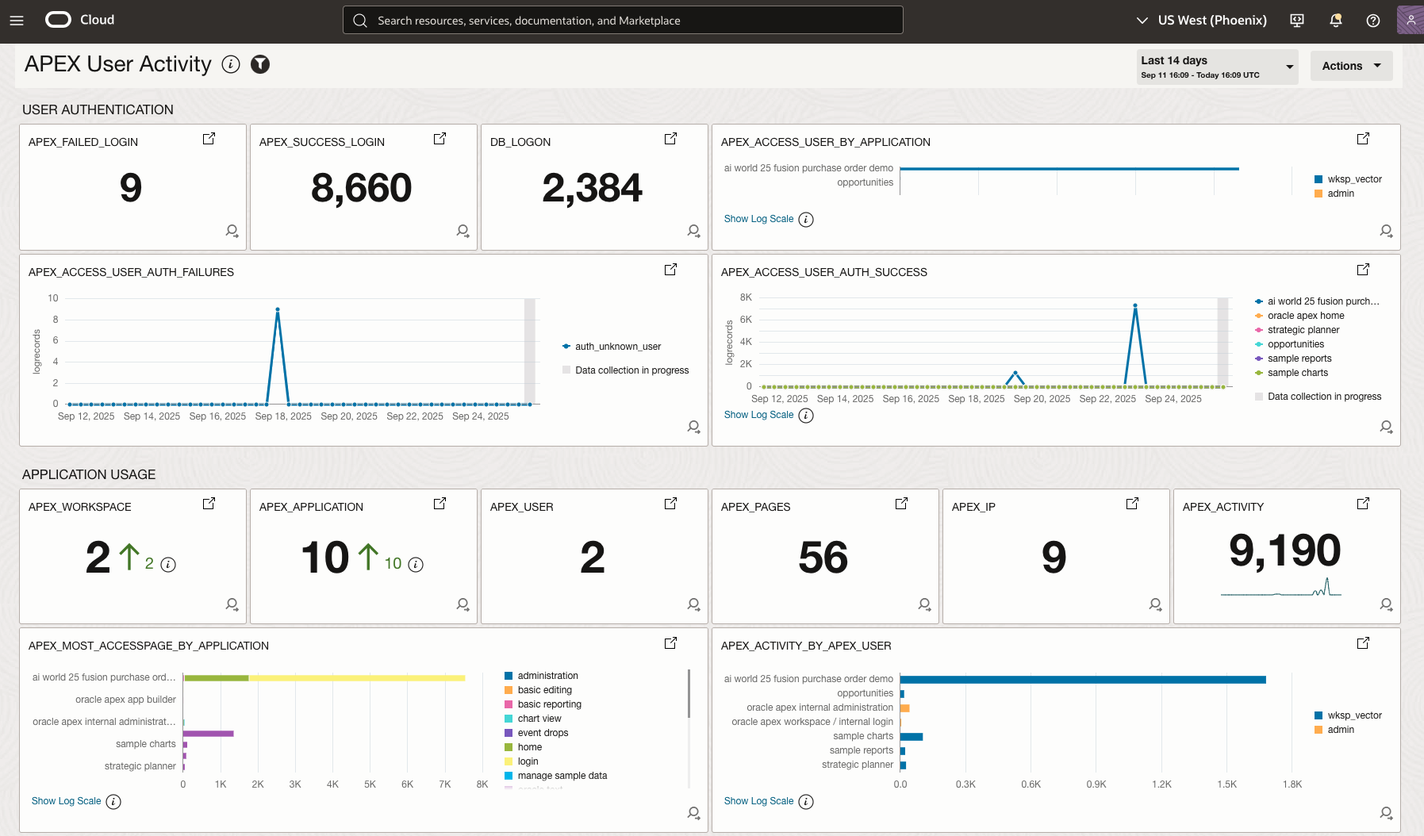
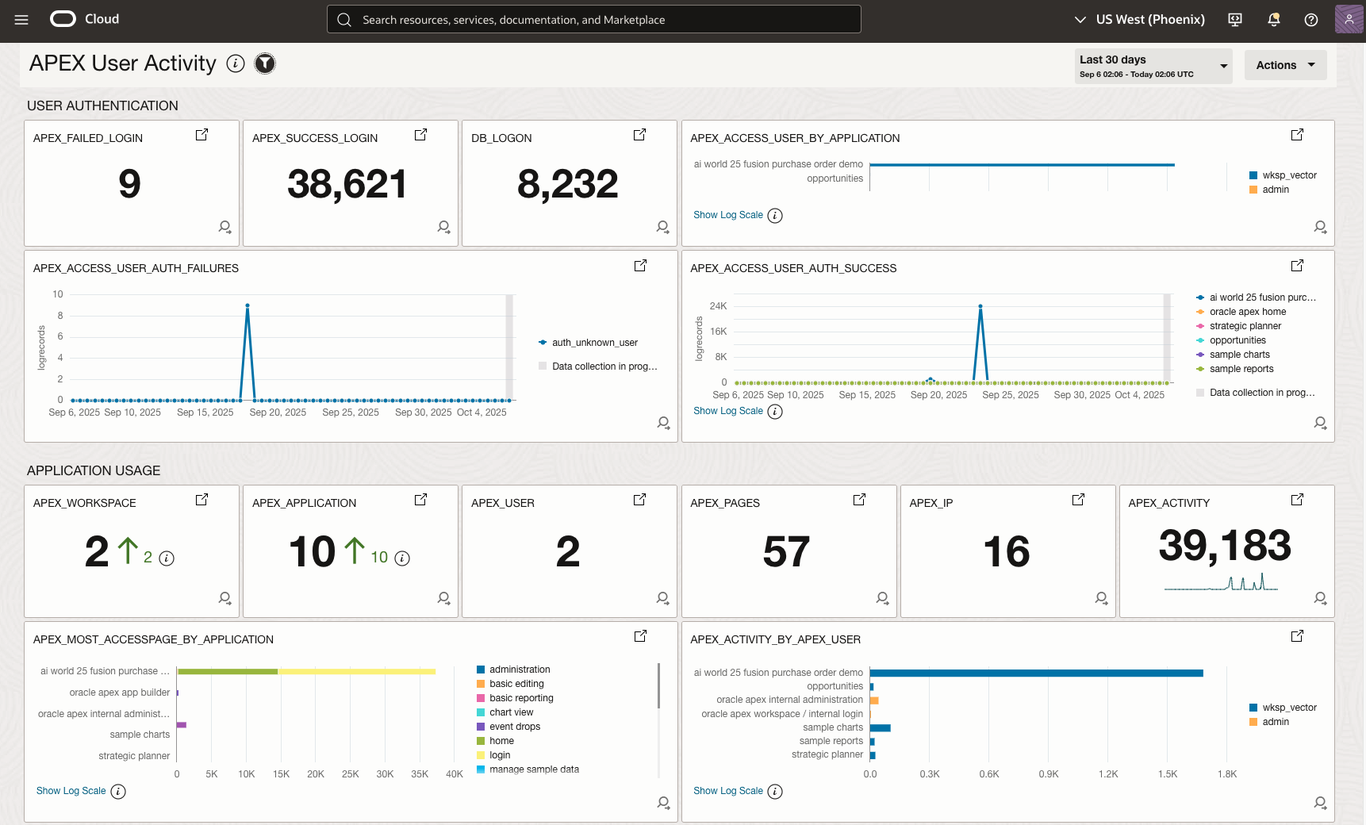
LA Livelab feedback and bug updates

diff --git a/logging-analytics/saas-oic-monitoring/monitoring-individual-components/monitoring-individual-components.md b/logging-analytics/saas-oic-monitoring/monitoring-individual-components/monitoring-individual-components.md
@@ -4,7 +4,7 @@
 
 In this lab, you will explore the various dashboards available in Oracle for monitoring Fusion Applications, Oracle Integration Cloud (OIC), and Oracle Database (DB). These dashboards offer a unified and centralized view of log data, allowing users to efficiently monitor system health, analyze performance, and troubleshoot issues across Fusion Applications, OIC integrations, and database instances.
 
-Estimated Time: 5 minutes
+Estimated Time: 5  minutes
 
 ### Objectives
 In this lab, you will get an overview of the different dashboards, including their usage and the various widgets provided within each dashboard.
@@ -26,10 +26,10 @@ In this lab, you will get an overview of the different dashboards, including the
 
     > **Note** : You will see an authorization error. It is expected as current user doesn't have permission to the root compartment.
 
- -  Switch to the compartment **AIW25\_Logging\_Analytics**.
-    - From the **Compartment** dropdown select the compartment **AIW25\_Logging\_Analytics**.
+ -  Switch to the compartment **AIW25\_Log\_Analytics**.
+    - From the **Compartment** dropdown select the compartment **AIW25\_Log\_Analytics**.
     - From the **Services** dropdown select the service **Log Analytics**.
-    - All the Dashboards in the Compartment **AIW25\_Logging\_Analytics** will be displayed.
+    - All the Dashboards in the Compartment **AIW25\_Log\_Analytics** will be displayed.
       
    ![all-dashboards](images/all-dashboards.jpg)
 
@@ -41,15 +41,23 @@ In this lab, you will get an overview of the different dashboards, including the
 
 -  **Oracle Integration Insight**  dashboard provides real-time business monitoring by linking technical integrations to business processes and KPIs. The dashboard enables business users, analysts, and IT teams to visualize the progress, performance, and bottlenecks in their business operations. It consists of different widgets like Summary widget, Milestone progress widget, Transction Performance widget , Transaction Tracking Fields widget etc. 
 
-- In order to view this dashboard one has to search for and click on the **Oracle Integration Insight** dashboard from the  **Dashboard** home page. It will take few seconds for the dashboard widgets to load.![dashboards-oic-insight](images/dashboards-oic-insight.jpg)
+- In order to view this dashboard, you can search for **Oracle Integration Insight** dashboard with the filter **Created by** as **Users** from the **Dashboard** home page. It will take few seconds for the dashboard widgets to load.![dashboards-oic-insight](images/dashboards-oic-insight.jpg)
+- **Note**: Please select the following filters and time rangefor the dashboard: 
+- **Log Group Compartment**: emdemo(root)
+- **Time Range**: Last 24 hours
+- Dashboard Filters:![dashboard-filters](images/logan-ll-oic-insight-dashboard-filters.png)
 	> **Important tip** : Observe the dashboard widgets & values once they are loaded.
 	![oic-insight-dashboard](images/logan-ll-oic-insight-dashboard.jpg)
 
 - **Oracle Integration: Health Overview** dashboard provides an overview of the monitored OIC instances, integrations, and their health based on the metrics and logs. This dashboard is used to gain insights into the current health of your OIC Instances, Integrations, and Flow Instances. Filters can be used to narrow down to a specific OIC Instance, Integration, and Integration Instance. It displays both metrics and log data at the compartment level. 
 
 - In order to view this dashboard one has to search for and click on the **Oracle Integration: Health Overview** from the  **Dashboard** home page. It will take few seconds for the dashboard widgets to load. ![dashboards-oic-health](images/dashboards-oic-health.jpg)
+- **Note**: Please select the following filters and time rangefor the dashboard: 
+- **Log Group Compartment**: emdemo(root)
+- **Time Range**: Last 24 hours
+- Dashboard Filters: ![dashboard-filters](images/logan-ll-oic-health-dashboard-filters.png)
 	> **Important tip** : Observe the dashboard widgets & values once they are loaded.
-	![oic-health-dashboard](images/oic-health-dashboard.jpg)
+	![oic-health-dashboard](images/logan-ll-oic-health-dashboard.png)
 
 ## Task 3: Overview of Oracle Fusion User Access and Audit Dashboard
 
@@ -60,13 +68,21 @@ In this lab, you will get an overview of the different dashboards, including the
 **Oracle Fusion User Access** dashboard provides comprehensive visibility into user authentication and access patterns within Oracle Fusion Applications. This dashboard tracks sign-in and sign-out activities of Fusion users, allowing administrators and security teams to monitor who is accessing the system, when, and from where. 
 
 - In order to view this dashboard one has to search for and click on the **Oracle Fusion User Access** dashboard from the  **Dashboard** home page. It will take few seconds for the dashboard widgets to load. ![dashboards-fusion-user-access](images/dashboards-fusion-user-access.jpg)
+- **Note**: Please select the following filters and time rangefor the dashboard: 
+- **Log Group Compartment**: emdemo(root)
+- **Time Range**: Last 7 days
+- Dashboard Filters:![dashboard-filters](images/logan-ll-fusion-user-access-dashboard-filters.png)
       > **Important tip** : Observe the dashboard widgets & values once they are loaded.
       ![db-fusion-user-access-dashboard](images/logan-ll-fusion-user-access-1.png)
-	  ![db-fusion-user-access-dashboard](images/logan-ll-fusion-user-access-2.png)   
+	![db-fusion-user-access-dashboard](images/logan-ll-fusion-user-access-2.png)   
 
 **Oracle Fusion Apps: OPSS Audit Analysis** dashboard leverages OPSS audit logs to provide comprehensive visibility into authentication and access events within Oracle Fusion Applications. By analyzing OPSS audit logs, this dashboard allows administrators and security teams to track new user creation and role assignment, monitor security-related operations, and identify when and where users accessed the system. The insights derived from OPSS audit logs help ensure compliance, detect suspicious access patterns, and enhance overall security monitoring.
 
 - In order to view this dashboard one has to search for and click on the **Oracle Fusion Apps: OPSS Audit Analysis** dashboard from the  **Dashboard** home page. It will take few seconds for the dashboard widgets to load. ![dashboards-fusion-opss-access](images/logan-ll-dashboards-fusion-opss-access.png)
+- **Note**: Please select the following filters and time rangefor the dashboard: 
+- **Log Group Compartment**: emdemo(root)
+- **Time Range**: Last 7 days
+- Dashboard Filters: ![dashboard-filters](images/logan-ll-dashboard-filter.png)
       > **Important tip** : Observe the dashboard widgets & values once they are loaded.
       ![db-fusion-opss-dashboard](images/logan-ll-fusion-opss.png)
 
@@ -75,6 +91,10 @@ In this lab, you will get an overview of the different dashboards, including the
 **Oracle Fusion Apps Enterprise Scheduler Service (ESS) Analysis** dashboard provides deep visibility into the execution and status of ESS job requests within Oracle Fusion Applications. By collecting and analyzing ESS logs using OCI Logging Analytics, this dashboard enables you to monitor job execution trends, identify failed or long-running jobs, and troubleshoot scheduling issues. The dashboard leverages log ingestion via the OCI Logging Analytics REST API, offering actionable insights into job request patterns, error rates, and operational bottlenecks. For more details on how ESS logs are collected and analyzed.
 
 - In order to view this dashboard one has to search for and click on the **Oracle Fusion Apps Enterprise Scheduler Service (ESS) Analysis**  dashboard from the  **Dashboard** home page. It will take few seconds for the dashboard widgets to load. ![dashboards-fusion-enterprise](images/dashboards-fusion-enterprise.jpg)
+- **Note**: Please select the following filters and time rangefor the dashboard: 
+- **Log Group Compartment**: emdemo(root)
+- **Time Range**: Last 24 hours
+- Dashboard Filters: ![dashboard-filters](images/logan-ll-dashboard-filter.png)
       > **Important tip** : Observe the dashboard widgets & values once they are loaded.
       ![fusion-enterprise-dashboard](images/logan-ll-fusion-enterprise-dashboard.png)
 
@@ -85,9 +105,14 @@ In this lab, you will get an overview of the different dashboards, including the
 | **Oracle APEX Application** | User Activity, Application Usage, Error Logs | User Success and Failed Logins, Application and User Activity, Application Errors | ADW, OIC | Database connector based log ingestion via Management Agent |
 
 - **Oracle APEX Application** dashboard provides an overview of the monitored APEX Application, including user activity, application usage, and error logs. This dashboard is used to gain insights into the current health of your APEX Application.
-- In order to view this dashboard one has to search for and click on the **APEX User Activity** dashboard from the  **Dashboard** home page. It will take few seconds for the dashboard widgets to load. Time range is set to **Last 7 days**. ![apex-user-activity-access](images/logan-ll-apex-user-activity-access.png)
+- In order to view this dashboard one has to search for and click on the **APEX User Activity** dashboard from the  **Dashboard** home page. It will take few seconds for the dashboard widgets to load. Time range is set to **Last 30 days**. ![apex-user-activity-access](images/logan-ll-apex-user-activity-access.png)
+- **Note**: Please select the following filters and time rangefor the dashboard: 
+- **Log Group Compartment**: emdemo(root)
+- **Time Range**: Last 30 days
+- **Compartment**: **AIW25\_Log\_Analytics**
+- Dashboard Filters: ![dashboard-filters](images/logan-ll-apex-dashboard-filter.png)
       > **Important tip** : Observe the dashboard widgets & values once they are loaded.
-	![apex-application-dashboard](images/logan-ll-apex-user-activity-dashboard-1.png)
+	![apex-application-dashboard](images/logan-ll-apex-user-activity-dashboard.png)
       ![apex-application-dashboard-continued](images/logan-ll-apex-user-activity-dashboard-2.png)
 
 ## Task 6: Overview of Oracle Database Audit Analysis dashboard
@@ -99,25 +124,29 @@ In this lab, you will get an overview of the different dashboards, including the
 - **Oracle Database Audit Analysis** dashboard provides analysis of audited actions for Oracle Databases monitored by Log Analytics using Unified Database Audit Logs available in DB v12.2 onwards. This dashboard is used to understand user activity, schema changes etc.
 
 - In order to view this dashboard one has to search for and click on the **Oracle Database Audit Analysis** dashboard from the  **Dashboard** home page. It will take few seconds for the dashboard widgets to load. ![dashboards-db-audit](images/dashboards-db-audit.jpg)
+- **Note**: Please select the following filters and time rangefor the dashboard: 
+- **Log Group Compartment**: emdemo(root)
+- **Time Range**: Last 14 days
+- Dashboard Filters: ![dashboard-filters](images/logan-ll-dashboard-filter.png)
       > **Important tip** : Observe the dashboard widgets & values once they are loaded.
       ![db-audit-dashboard](images/logan-ll-db-audit.png)
 
 **Congratulations!** In this lab, you have successfuly completed the following tasks:
-- Monitoring different dashboards
+- Monitoring using individual dashboards
+- Switching to different time ranges for the dashboards
+
+You may now proceed to the [next lab](#next).
 
 ## Learn More
 
 * [Fusion Apps Observability by Collecting ESS Logs Using OCI Logging Analytics REST API Ingestion](https://www.ateam-oracle.com/post/fusion-apps-observability-by-collecting-ess-logs-using-oci-logging-analytics-rest-api-ingestion)
-* [Oracle Integration Insight Dashboard](https://docs.oracle.com/en-us/iaas/logging-analytics/doc/oracle-integration-insight-dashboard.html)
-* [Oracle Integration: Health Overview Dashboard](https://docs.oracle.com/en-us/iaas/logging-analytics/doc/oracle-integration-health-overview-dashboard.html)
-* [Oracle Database Audit Analysis Dashboard](https://docs.oracle.com/en-us/iaas/logging-analytics/doc/oracle-database-audit-analysis-dashboard.html)
-* [Oracle Fusion User Access Dashboard](https://docs.oracle.com/en-us/iaas/logging-analytics/doc/oracle-fusion-user-access-dashboard.html)
-* [Oracle Fusion Apps Enterprise Scheduler Service (ESS) Analysis Dashboard](https://docs.oracle.com/en-us/iaas/logging-analytics/doc/oracle-fusion-apps-enterprise-scheduler-service-ess-analysis-dashboard.html)
+* [Oracle Integration Insight Dashboard](https://docs.oracle.com/en-us/iaas/log-analytics/doc/oracle-integration-insight.html)
+* [Oracle Integration: Health Overview Dashboard](https://docs.oracle.com/en-us/iaas/log-analytics/doc/oracle-integration-health-overview.html)
+* [Oracle Database Audit Analysis Dashboard](https://docs.oracle.com/en-us/iaas/log-analytics/doc/oracle-database-audit-analysis.html)
+* [Oracle Fusion Apps Enterprise Scheduler Service (ESS) Analysis Dashboard](https://github.com/oracle-quickstart/oci-o11y-solutions/tree/main/knowledge-content/fa-ess-scheduler)
 
-
-You may now proceed to the [next lab](#next).
 
 ## Acknowledgements
 * **Author** - Supriya Joshi, OCI Log Analytics, Royce Fu, Master Principal Cloud Architect, Kumar Varun, Log Analytics Product Management
 * **Contributors** -  Supriya Joshi, Jolly Kundu, Kumar Varun, Royce Fu
-* **Last Updated By/Date** - Royce Fu, Sep, 2025
+* **Last Updated By/Date** - Royce Fu, Oct, 2025

diff --git a/logging-analytics/saas-oic-monitoring/monitoring-e2e-po-flow/monitoring-e2e-po-flow.md b/logging-analytics/saas-oic-monitoring/monitoring-e2e-po-flow/monitoring-e2e-po-flow.md
@@ -38,14 +38,7 @@ The following components generate logs that are crucial for end-to-end observabi
 - **Technical correlation for integration flows**
     - Transaction ID
     - OPC Request ID
-- **User ID** to track user actions across ERP and VBCS
 - **Timestamp** to track chronological ordering of events across components
-
-**Cross-Component Traceability:**
-- **Correlation ID**: Unique identifier passed through all components
-- **Timestamp Alignment**: Synchronized timestamps across all log sources
-- **Business Context**: PO number, user ID, and transaction ID tracking
-- **Error Propagation**: Error details flow from source to downstream components
 
 ## Task 2: Find the Purchase Order information
 
@@ -57,12 +50,12 @@ The following components generate logs that are crucial for end-to-end observabi
 
 ## Task 3: Tracing the Purchase Order Business Identifiers
 
-- **Navigate to Oracle Cloud Console**
+**Navigate to Oracle Cloud Console**
    - Log in to your Oracle Cloud Infrastructure console
    - Navigate to **Observability & Management** → **Log Analytics**
    - Click on **Log Explorer**
 
-- **Click the Log Explorer filter**
+**Click the Log Explorer filter**
    - Make sure the Log Group Compartment **emdemo(root)** is selected
    - Make sure the Region **US West (Phoenix)** is selected
    - Change the Time Range to **Last 8 hours**
@@ -90,15 +83,15 @@ The following components generate logs that are crucial for end-to-end observabi
 
 - Select the Time Range: Last 30 days
 - Visualization: Link
-- Run the following query in Log Explorer: 
 - Click the saved search URL [**Purchase Order Integration Runs Duration**](https://cloud.oracle.com/loganalytics/explorer?savedSearchId=ocid1.managementsavedsearch.oc1..aaaaaaaa7dz5imt6qebrrdet4r4zwme7qjh5mpeo53ox2tlbig2f6q5m64pq&jobId=3f01334b-17d5-3c6a-5e2d-013ff05b6c9e&region=us-phoenix-1) to open the saved search in Log Explorer
+- Or run the following query in Log Explorer: 
 
    ```sql
    <copy>
    (300000313760215 or US165676) and 'Log Source' in ('OCI Integration Activity Stream Logs', AIW_PO_ERP_ATP) | link 'OPC Request ID', Integration | eval Duration = 'End Time' - 'Start Time'
    </copy>
    ```
-
+- **Optional**: You can substitute the PO number with your own PO number to track the duration of your Purchase Order integration runs.
 - Example Result Screenshot: 
 
 ![Purchase Order Integration Runs Duration](images/logan-ll-purchase-order-integration-runs-duration.png)
@@ -109,7 +102,7 @@ The following components generate logs that are crucial for end-to-end observabi
 - Select the Time Range: Last 24 hours
 - Visualization: Link
 - Click the saved search URL [**Purchase Order Flow Timeline**](https://cloud.oracle.com/loganalytics/explorer?savedSearchId=ocid1.managementsavedsearch.oc1..aaaaaaaagibcw7an4rryjyozga3iqr7udva24h4p5idoh2xijcsdmr3idl5q&jobId=2e412276-e814-1cfd-f5df-4ed035aed6d8&region=us-phoenix-1) to open the saved search in Log Explorer
-- Run the following query in Log Explorer: 
+- Or run the following query in Log Explorer: 
 
    ```sql
    <copy>
@@ -128,14 +121,14 @@ Example Result Screenshot:
 - Select the Time Range: Last 30 days
 - Visualization: Table
 - Click the saved search URL [**Track a specific Purchase Order for example: 300000313760215 or US165676 across all systems**](https://cloud.oracle.com/loganalytics/explorer?savedSearchId=ocid1.managementsavedsearch.oc1..aaaaaaaaatq6boajnavzdpjf2oa6htih5jzdqetq6w4w4jwe4hotoqlb3owq&jobId=95046557-fc66-aa76-508f-0c37f3332164&region=us-phoenix-1) to open the saved search in Log Explorer
-- Run the following query in Log Explorer: 
+- Or run the following query in Log Explorer: 
 
    ```sql
    <copy>
    (300000313760215 or US165676) and 'Log Source' in ('OCI Integration Activity Stream Logs', AIW_PO_ERP_ATP) | fields -Entity, -'Host Name (Server)', -'Problem Priority', -Label, Integration, Message, Value, Action, 'Action Type', 'OPC Request ID', -'Entity Type'
    </copy>
    ```
-
+- **Optional**: You can substitute the PO number with your own PO number to track the duration of your Purchase Order integration runs.
 - Example Result Screenshot: 
 
 ![Purchase Order Integration Flows](images/logan-ll-purchase-order-integration-flows-details.png)
@@ -148,7 +141,7 @@ Example Result Screenshot:
 - Select the Time Range: Last 24 hours
 - Visualization: Records with Histogram
 - Click the saved search URL [**Oracle Integration Cloud Milestones Trend**](https://cloud.oracle.com/loganalytics/explorer?savedSearchId=ocid1.managementsavedsearch.oc1..aaaaaaaa5k23nuywnvlorwmhzm3amzqyduix4ijimatifxdqrhddsiah2upq&jobId=f2b2c50a-5088-ca02-2a37-7ac59e121ba6&region=us-phoenix-1) to open the saved search in Log Explorer
-- Run the following query in Log Explorer: 
+- Or run the following query in Log Explorer: 
 
    ```sql
    <copy>
@@ -165,7 +158,7 @@ Example Result Screenshot:
 - Select the Time Range: Last 24 hours
 - Visualization: Pie
 - Click the saved search URL [**Oracle Integration Action Types Summary**](https://cloud.oracle.com/loganalytics/explorer?savedSearchId=ocid1.managementsavedsearch.oc1..aaaaaaaagsk2yup63wu52yjjvhazqrwrhtlgyah52bki3iumu7pgf4pjnmca&jobId=8d66a7b0-bbac-faa8-b420-0723bbe64cd8&region=us-phoenix-1) to open the saved search in Log Explorer
-- Run the following query in Log Explorer: 
+- Or run the following query in Log Explorer: 
 
    ```sql
    <copy>
@@ -184,7 +177,7 @@ Example Result Screenshot:
 - Select the Time Range: Last 24 hours
 - Visualization: Link
 - Click the saved search URL [**Analyze Oracle Integration Cloud Transaction Performance**](https://cloud.oracle.com/loganalytics/explorer?savedSearchId=ocid1.managementsavedsearch.oc1..aaaaaaaa32o74wmh6ler6mxqwilpviqttuqu74yhmnf7rcxqtlbpsd7jkbsa&jobId=85f6ff26-2f02-95f5-ca45-8cca3fd47629&region=us-phoenix-1) to open the saved search in Log Explorer
-- Run the following query in Log Explorer: 
+- Or run the following query in Log Explorer: 
 
    ```sql
    <copy>
@@ -210,7 +203,7 @@ Example Result Screenshot:
 - Select the Time Range: Last 24 hours
 - Visualization: Link
 - Click the saved search URL [**Identify the long running Purchase Order integrations**](https://cloud.oracle.com/loganalytics/explorer?savedSearchId=ocid1.managementsavedsearch.oc1..aaaaaaaaceb6o434pqfihntr5xsstfabzgay34j36arevkrfkjmesmcqkgaq&jobId=843d119e-600b-63aa-929e-b9e580e363c8&region=us-phoenix-1) to open the saved search in Log Explorer
-- Run the following query in Log Explorer: 
+- Or run the following query in Log Explorer: 
 
    ```sql
    <copy>
@@ -221,22 +214,6 @@ Example Result Screenshot:
 - Example Result Screenshot: 
 
 ![Identify the long running Purchase Order integrations](images/logan-ll-identify-the-long-running-purchase-order-integrations.png)
-
-### **Identify the long running Purchase Order integrations with Chart**
-
-- Select the Time Range: Last 24 hours
-- Visualization: Link
-- Run the following query in Log Explorer: 
-
-   ```sql
-   <copy>
-   'Log Source' in ('OCI Integration Activity Stream Logs', AIW_PO_ERP_ATP) and Integration != rpa_integration and Integration != dell_ftp_receive | link 'OPC Request ID', Integration | stats avg(Duration) as Duration | eval Duration = 'End Time' - 'Start Time' | sort -Duration | fields -'End Time' | classify topcount = 500 correlate = -*, 'OPC Request ID' 'Start Time', Integration, Duration as 'PO Integrations duration'
-   </copy>
-   ```
-
-- Example Result Screenshot: 
-
-![Identify the long running Purchase Order integrations with Chart](images/logan-ll-identify-the-long-running-purchase-order-integrations-with-chart.png)
 
 
 ## Task 5: Visualize the Purchase Order business data in Log Analytics
@@ -271,9 +248,9 @@ You may now proceed to the [next lab](#next).
 ## Learn More
 
 * [Oracle Cloud Infrastructure Log Analytics Documentation](https://docs.oracle.com/en-us/iaas/log-analytics/)
-* [Log Analytics Query Language Reference](https://docs.oracle.com/en-us/iaas/log-analytics/doc/query-language.html)
+* [Log Analytics Query Language Reference](https://docs.oracle.com/en-us/iaas/log-analytics/doc/command-reference.html)
 * [Creating Dashboards in Log Analytics](https://docs.oracle.com/en-us/iaas/log-analytics/doc/create-dashboards.html)
-* [Setting up Alerts in Log Analytics](https://docs.oracle.com/en-us/iaas/log-analytics/doc/set-up-alerts.html)
+* [Setting up Alerts in Log Analytics](https://docs.oracle.com/en-us/iaas/log-analytics/doc/create-alerts-detected-events.html)
 * [Oracle Fusion Applications Documentation](https://docs.oracle.com/en/applications/)
 * [Oracle Integration Cloud Documentation](https://docs.oracle.com/en/cloud/paas/integration-cloud/)
 

diff --git a/logging-analytics/saas-oic-monitoring/troubleshoot-business-flow/troubleshoot-business-flow.md b/logging-analytics/saas-oic-monitoring/troubleshoot-business-flow/troubleshoot-business-flow.md
@@ -31,17 +31,18 @@ The Fusion and OIC Process Monitoring Dashboard provides a centralized view of b
 ### Accessing the Process Monitoring Dashboard
 
 - **Navigate to Oracle Cloud Console**
-   - Log in to your Oracle Cloud Infrastructure console
-   - Navigate to **Observability & Management** → **Log Analytics**
-
-- **Access Process Monitoring**
-   - Select compartment **AIW25\_Log\_Analytics**
-   - Click on **Dashboards** in the left navigation menu
-   - Select **Fusion OIC Process Monitoring** from the dashboard list
-   - Or create a new dashboard specifically for PO monitoring
-
-- **Update Time Range** 
-Set **Time range**  to **Last 24 Hours**. ![time-range](images/logan-ll-dashboard-time-range.png)
+    - Log in to your Oracle Cloud Infrastructure console
+    - Navigate to **Observability & Management** → **Log Analytics**
+    - Select compartment **AIW25\_Log\_Analytics**
+    - Click on **Dashboards** in the left navigation menu
+    - Search for **Fusion OIC Process Monitoring** from the dashboard list
+    - Select the following dashboard filters:
+        - **Log Group Compartment**: emdemo(root)
+        - **Region**: US West (Phoenix)
+        - **Compartment**: AIW25_Log_Analytics
+        - ![dashboard-filters](images/logan-ll-dashboard-filters.png)
+    - **Update Time Range** 
+    - Set **Time range**  to **Last 24 Hours**. ![time-range](images/logan-ll-dashboard-time-range.png)
 
 ## Task 2: Understanding the Dashboard Widgets
 
@@ -144,23 +145,26 @@ The Fusion and OIC Process Monitoring Dashboard provides comprehensive visibilit
 ### **Transaction Performance**
 
 - **Purpose**: Analyze end-to-end transaction execution and performance for Purchase Order processes
-- **Transaction Execution Times and Milestones Chronology**: Provides a complete timeline view of transaction execution, showing all milestones and their timing
-- **Transaction Tracking Fields**: Shows business process tracking fields and their values, enabling transaction correlation
+- **Transaction Purchase Order Integration Run Tracing**: Provides a complete timeline view of integration run execution, showing all milestones and their timing. Trace the Purchase Order Duration Trend. 
 - **Transaction Details ERP Purchase Order**: Provides PO-specific transaction details, showing all tracking fields for Purchase Orders
-- **Transaction Details ERP Purchase Order Event Sequence**: Shows the sequence of events for PO transactions, providing process flow visibility
-- **OIC Integration Time Taken Analysis**: Provides detailed analysis of OIC integration flows, showing execution patterns and performance
+- **ERP PO Porcessing Events**: Shows the sequence of events for PO transactions, providing process flow visibility
+- **OIC Integration Analysis**: Provides detailed analysis of OIC integration flows, showing execution patterns and performance
 - **Key Insights**:
+    - Purchase Order Duration Trend
     - Complete transaction timeline
     - Milestone execution order
-    - Performance trends
+    - Trace the Purchase Order Details across all upstream and downstream systems
     - Tracking Fields tracibility
-    - Field mapping accuracy
 
-![Transaction Performance](images/logan-ll-fusion-oic-process-monitoring-dashboard-transaction-performance-1.png)
+![Transaction Performance Purchase Order Integration Run Tracing](images/logan-ll-fusion-oic-process-monitoring-dashboard-transaction-performance-purchase-order-integration-run-tracing.png)
 
-![ERP Purchase Order Transaction Details Event Sequence](images/logan-ll-fusion-oic-process-monitoring-dashboard-erp-purchase-order-transaction-details-event-sequence-1.png)
+![Purchase Order Duration Trend and Transaction Tracing](images/logan-ll-fusion-oic-process-monitoring-dashboard-purchase-order-duration-trend-and-transaction-tracing.png)
 
-![OIC Integration Time Taken Analysis](images/logan-ll-fusion-oic-process-monitoring-dashboard-oic-integration-time-taken-analysis-1.png)
+![Purchase Order Details Across Systems](images/logan-ll-fusion-oic-process-monitoring-dashboard-purchase-order-details-across-systems.png)
+
+![Transaction Performance ERP PO Processing Events](images/logan-ll-fusion-oic-process-monitoring-dashboard-erp-purchase-order-transaction-details-event-sequence.png)
+
+![OIC Integration Analysis](images/logan-ll-fusion-oic-process-monitoring-dashboard-oic-integration-time-taken-analysis.png)
 
 
 **Congratulations!** In this lab, you have successfully completed the following tasks:
@@ -184,6 +188,6 @@ You now have comprehensive knowledge of how to use the Fusion and OIC Process Mo
 * [Oracle Integration 3 - Automate ERP Cloud and B2B Integration with Trading Partners](https://livelabs.oracle.com/pls/apex/r/dbpm/livelabs/run-workshop?p210_wid=3803&p210_wec=&session=25827311700854)
 
 ## Acknowledgements
-* **Author** - Royce Fu, Master Principal Cloud Architect,Kumar Varun, Log Analytics Product Management
+* **Author** - Royce Fu, Master Principal Cloud Architect, Kumar Varun, Log Analytics Product Management
 * **Contributors** -  Kumar Varun, Royce Fu, Supriya Joshi, Jolly Kundu
-* **Last Updated By/Date** - Royce Fu, Sep, 2025
+* **Last Updated By/Date** - Royce Fu, Oct, 2025

diff --git a/logging-analytics/saas-oic-monitoring/understanding-flow/understanding-flow.md b/logging-analytics/saas-oic-monitoring/understanding-flow/understanding-flow.md
@@ -42,14 +42,14 @@ B2B stands for business-to-business integration. This is essentially multiple co
 
 ### Oracle Fusion SaaS ERP Cloud, Oracle Integration Cloud, Oracle Database, and Visual Builder Monitoring Reference Architecture
 
-![Oracle Fusion SaaS ERP, OIC, ADB, VBCS Monitoring Reference Architecture](images/logan-ll-fusion-oic-adb-vbcs-flow-architecture-with-observability.png)
+![Oracle Fusion SaaS ERP, OIC, ADB, APEX Monitoring Reference Architecture](images/logan-ll-fusion-oic-adb-vbcs-flow-architecture-with-observability.png)
 
 The Purchase Order process involves multiple Oracle Cloud services working together to create a seamless business flow with comprehensive observability:
 
 - **Oracle Fusion ERP Cloud** - Initiates the PO creation process and generates business events
 - **Oracle Integration Cloud (OIC)** - Orchestrates data transformation, routing, and B2B processing
 - **Oracle Database (ADW)** - Stores transformed data for analytics and generates database logs
-- **Visual Builder Cloud Service (VBCS)** - Provides user interface and generates application logs
+- **Application Express (APEX)** - Provides user interface and generates apex activity logs
 - **B2B Trading Partners** - External systems receiving EDI documents via FTP/SFTP
 
 ## (Optional)Task 2: Create Purchase Order in ERP Cloud
